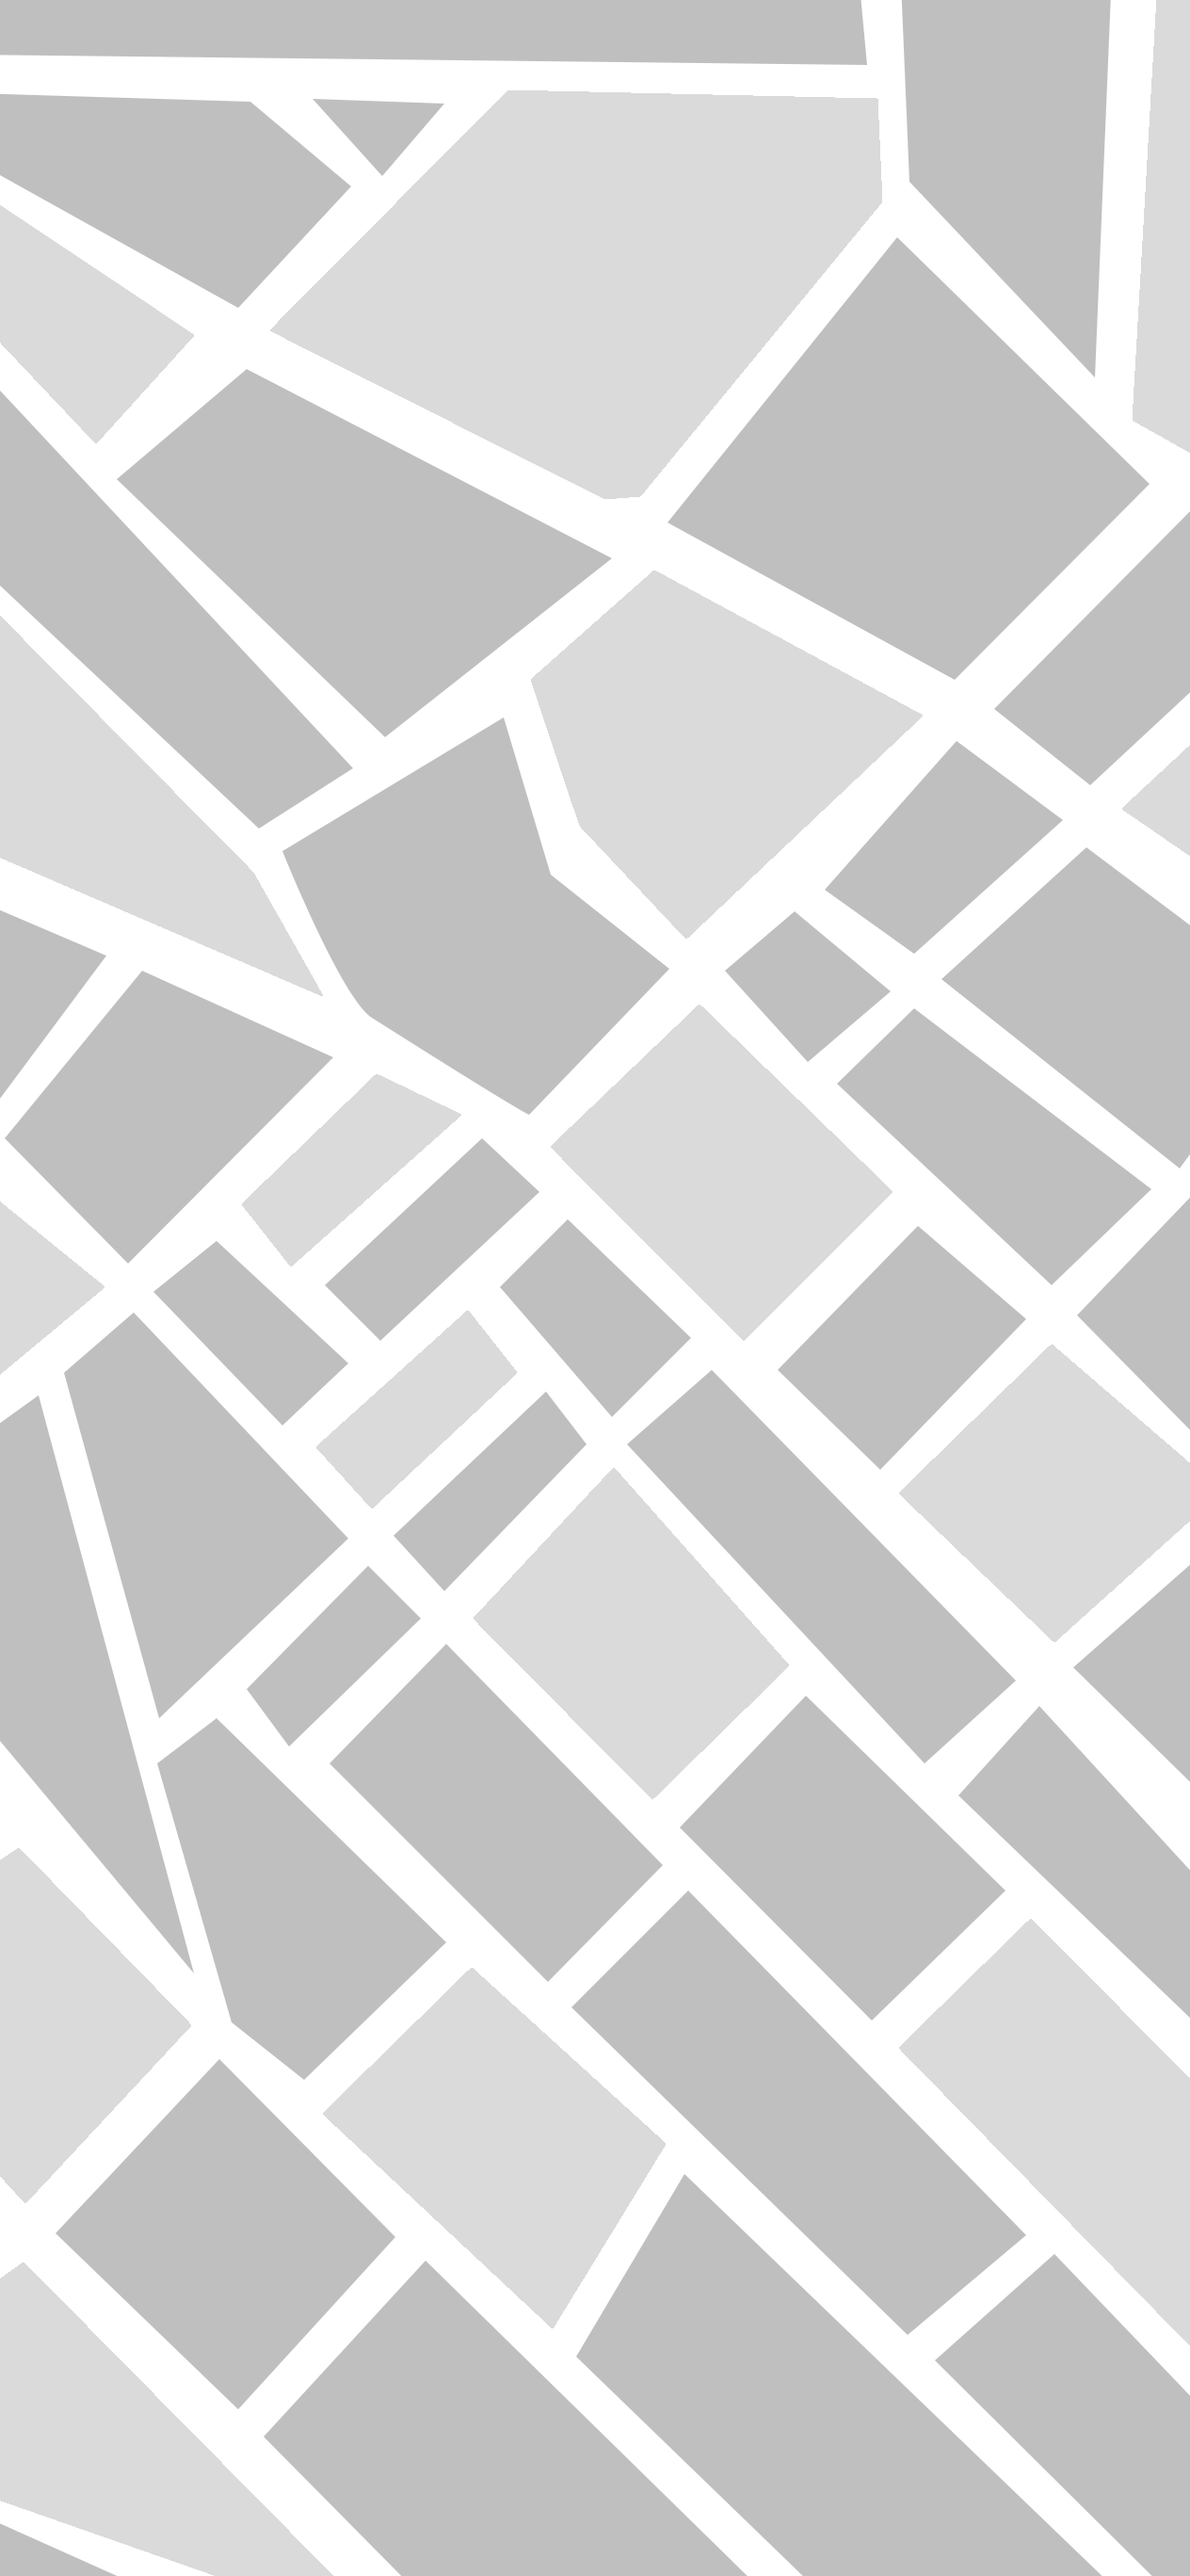
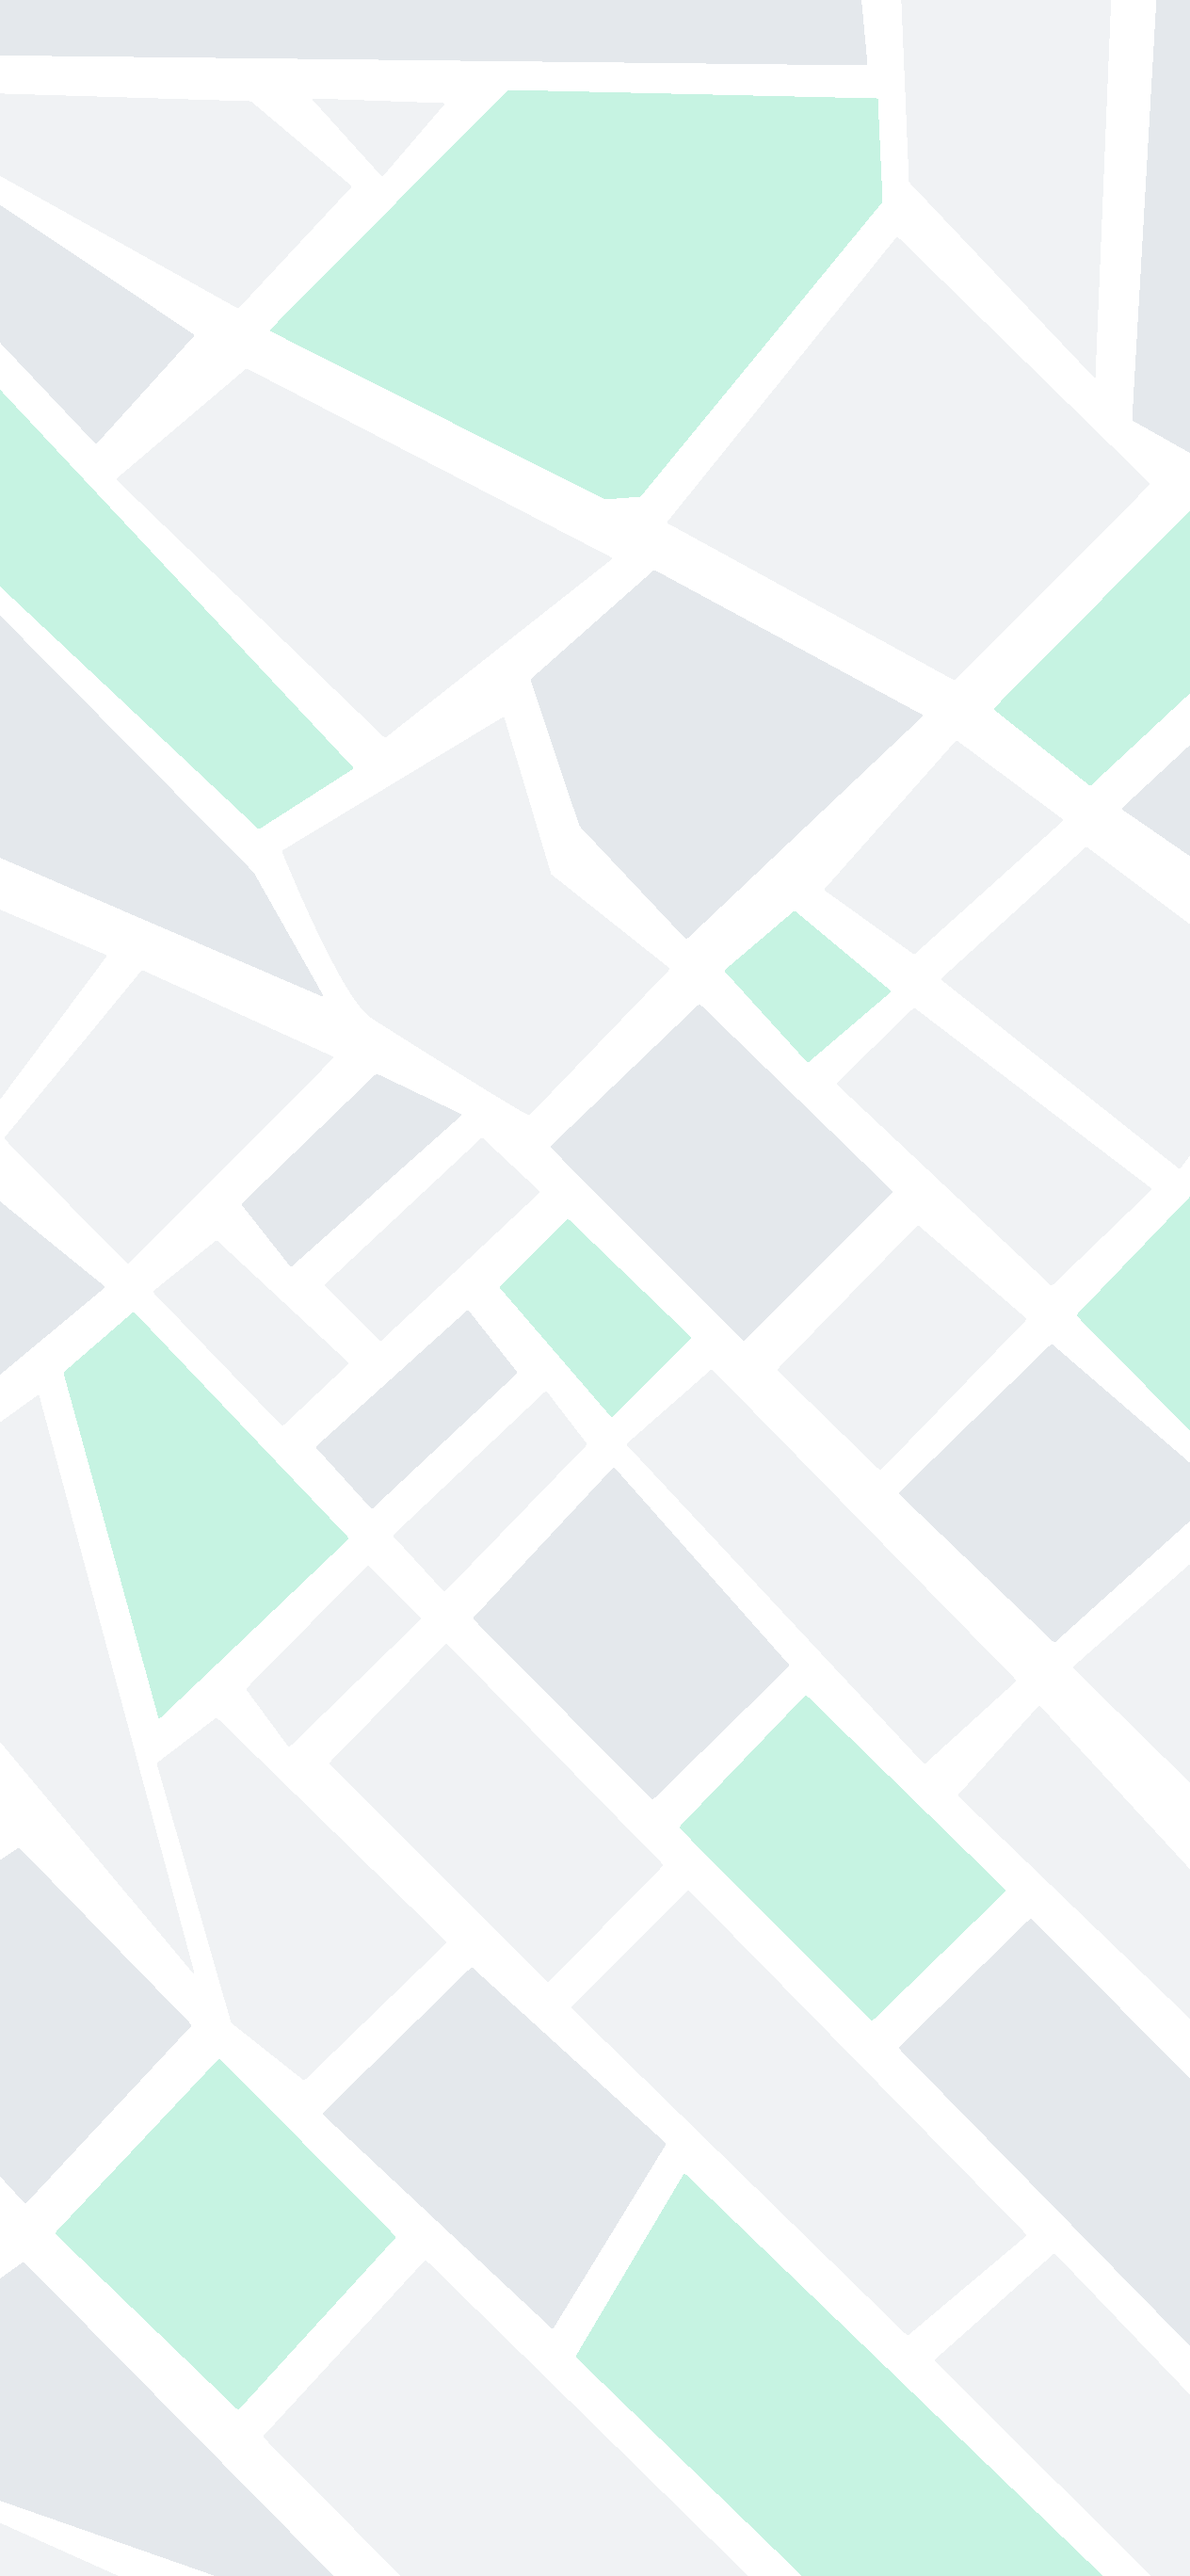
Новая map

diff --git a/screens/RegistrationScreen.tsx b/screens/RegistrationScreen.tsx
@@ -9,13 +9,13 @@ import { colors } from "../theme";
 type Props = NativeStackScreenProps<RootStackParamList, "Registration">;
 
 // Экран «01 Регистрация»
-{/* Детали фона */}
 export function RegistrationScreen({ navigation }: Props) {
     const { width } = useWindowDimensions();
     const front = width * 1.25; 
     const back = width * 0.75; 
   return (
     <View style={styles.container}>
+      {/* Детали фона */}
       <View style={styles.topArc} />
         <View
           style={[
@@ -50,6 +50,7 @@ export function RegistrationScreen({ navigation }: Props) {
         <Text style={styles.subtitle}>забронируйте авто{"\n"}уже сегодня</Text>
       </SafeAreaView>
 
+      {/* Форма */}
       <View style={styles.form}>
         <Text style={styles.label}>Номер телефона</Text>
         <TextInput
